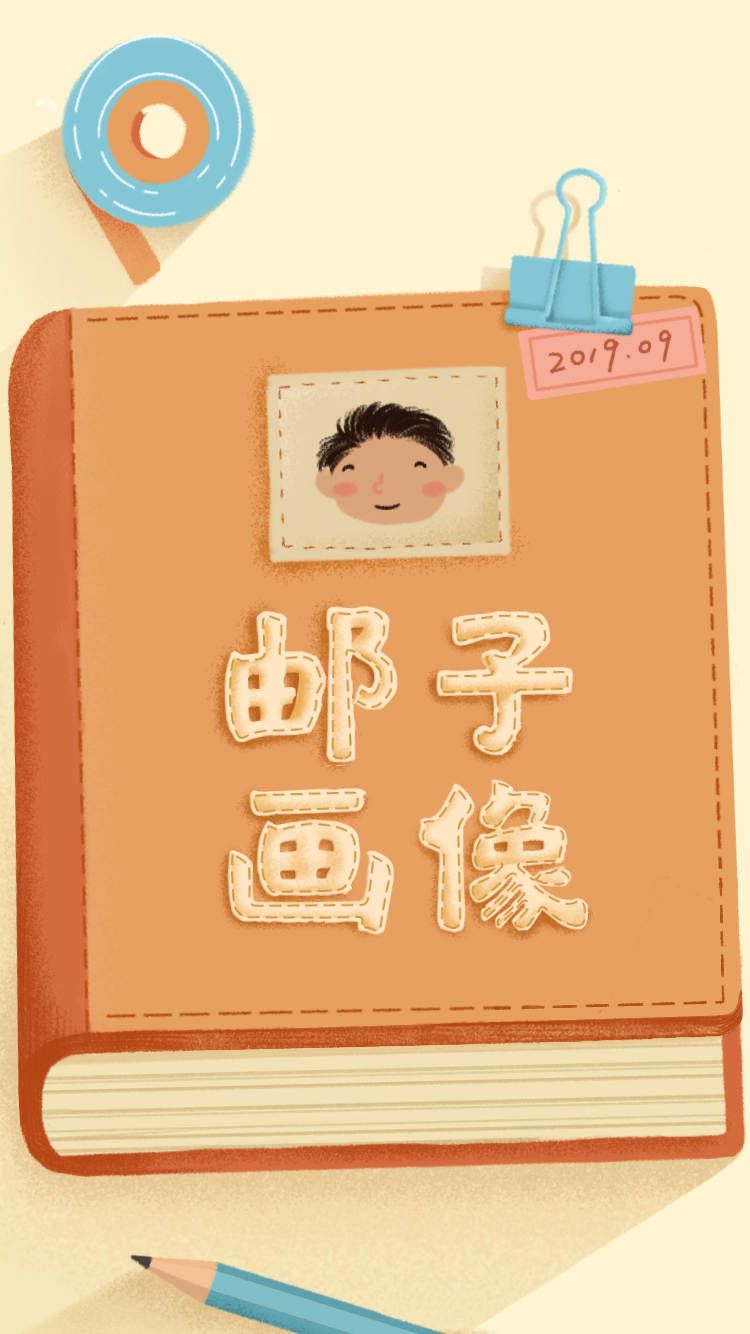
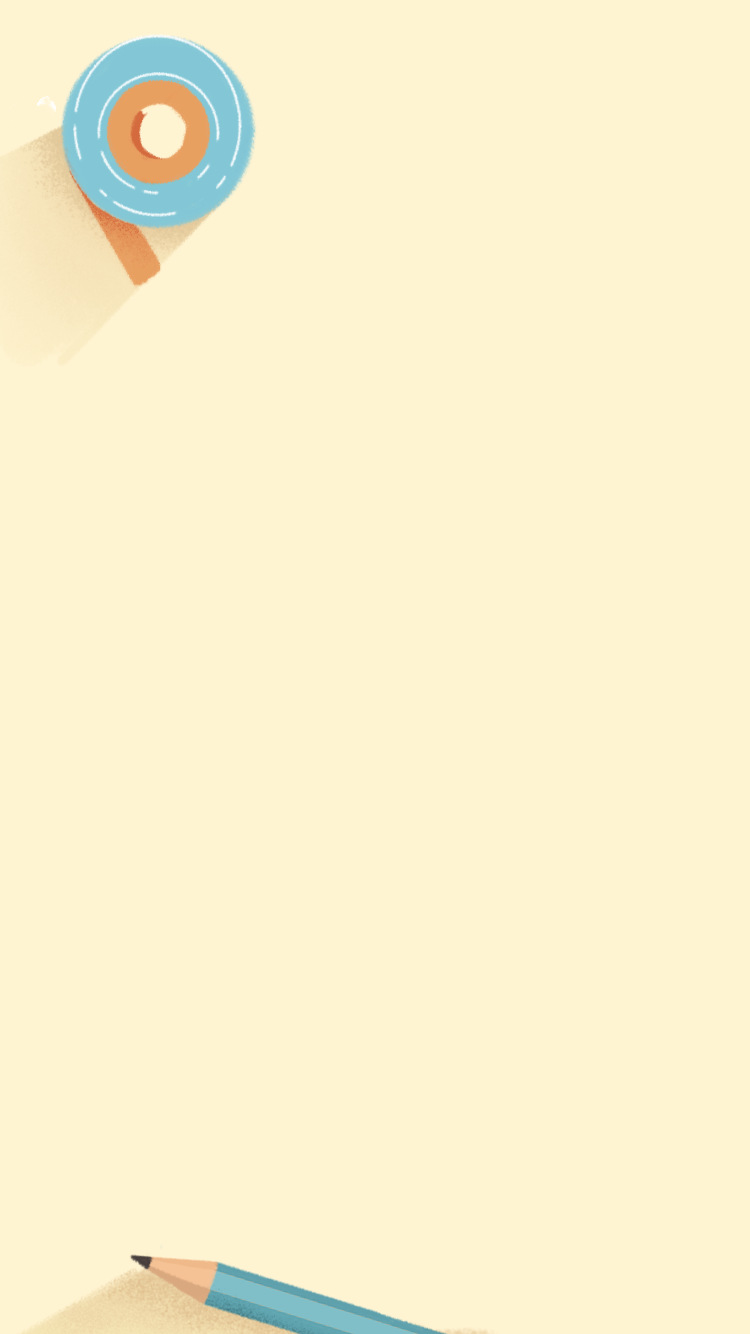
feat : home.page

diff --git a/src/views/Home.vue b/src/views/Home.vue
@@ -1,11 +1,10 @@
 <template>
   <div class="home">
-    <img class="background" src="../assets/images/home.png" />
-
-    <router-link to = "/question">
-    <img class="enter" src="../assets/images/enter.png">
-    </router-link>
-    
+    <div class="book">
+      <router-link to="/question">
+        <img class="enter" src="../assets/images/enter.png" />
+      </router-link>
+    </div>
   </div>
 </template>
 
@@ -21,19 +20,24 @@ export default {};
   left: 0;
   height: 100%;
   width: 100%;
-  .background {
-    width: 100%;
-    height: 100%;
-    display: block;
+  background: url("../assets/images/home.png");
+  background-size: cover;
+
+  .book {
+    background: url("../assets/images/book.png");
+    width: 744px;
+    height: 1011px;
+    background-size: 100%;
+    position: absolute;
+    bottom: 15%;
+
   }
   .enter {
     width: 134px;
-    height:218px;
+    height: 218px;
     position: fixed;
-    top:1100px;
-    left: 500px;
-   
-    
+    top: 78%;
+    left: 70%;   
   }
 }
 </style>
